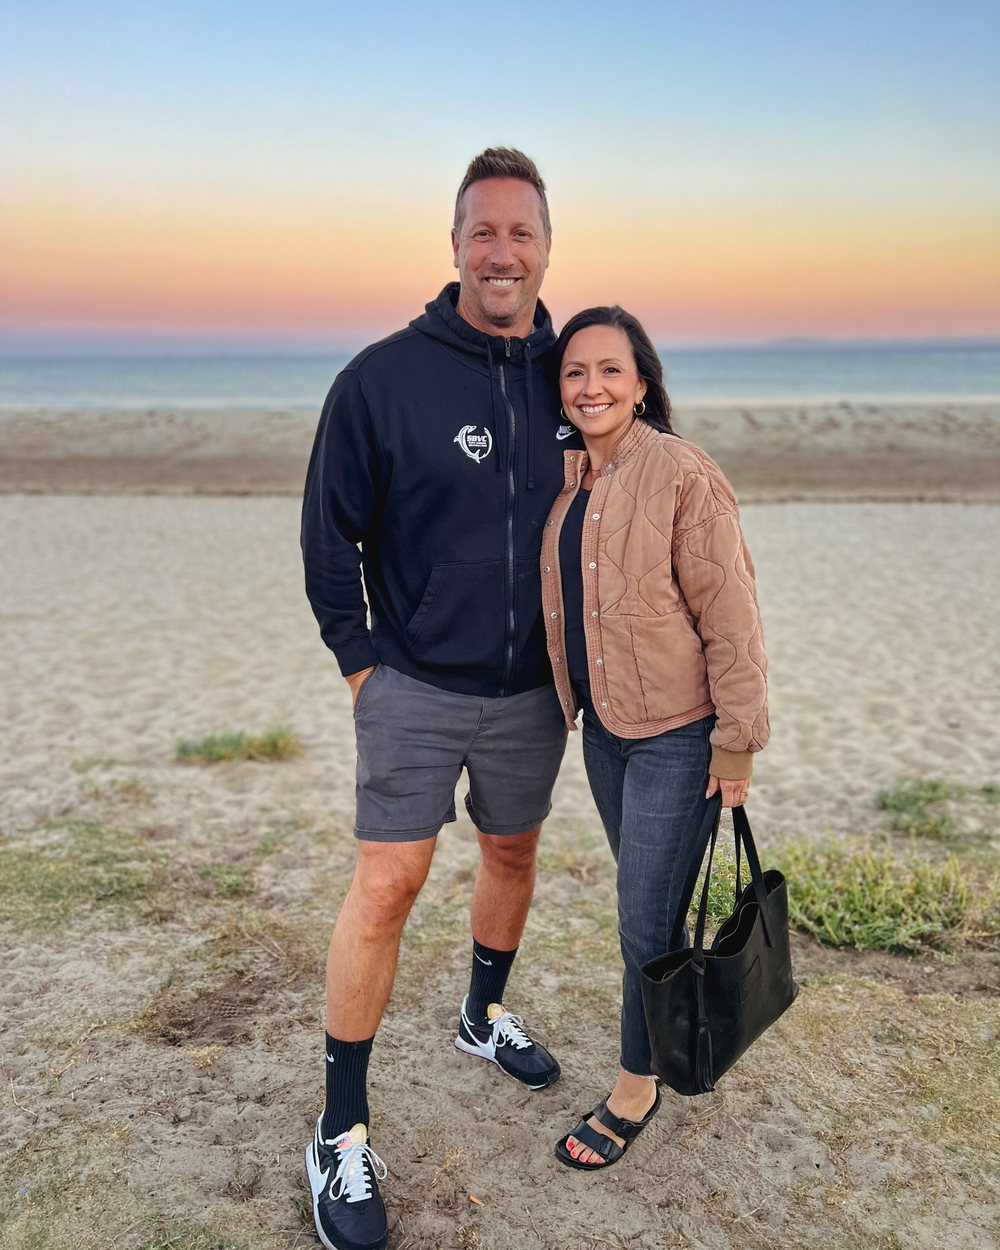
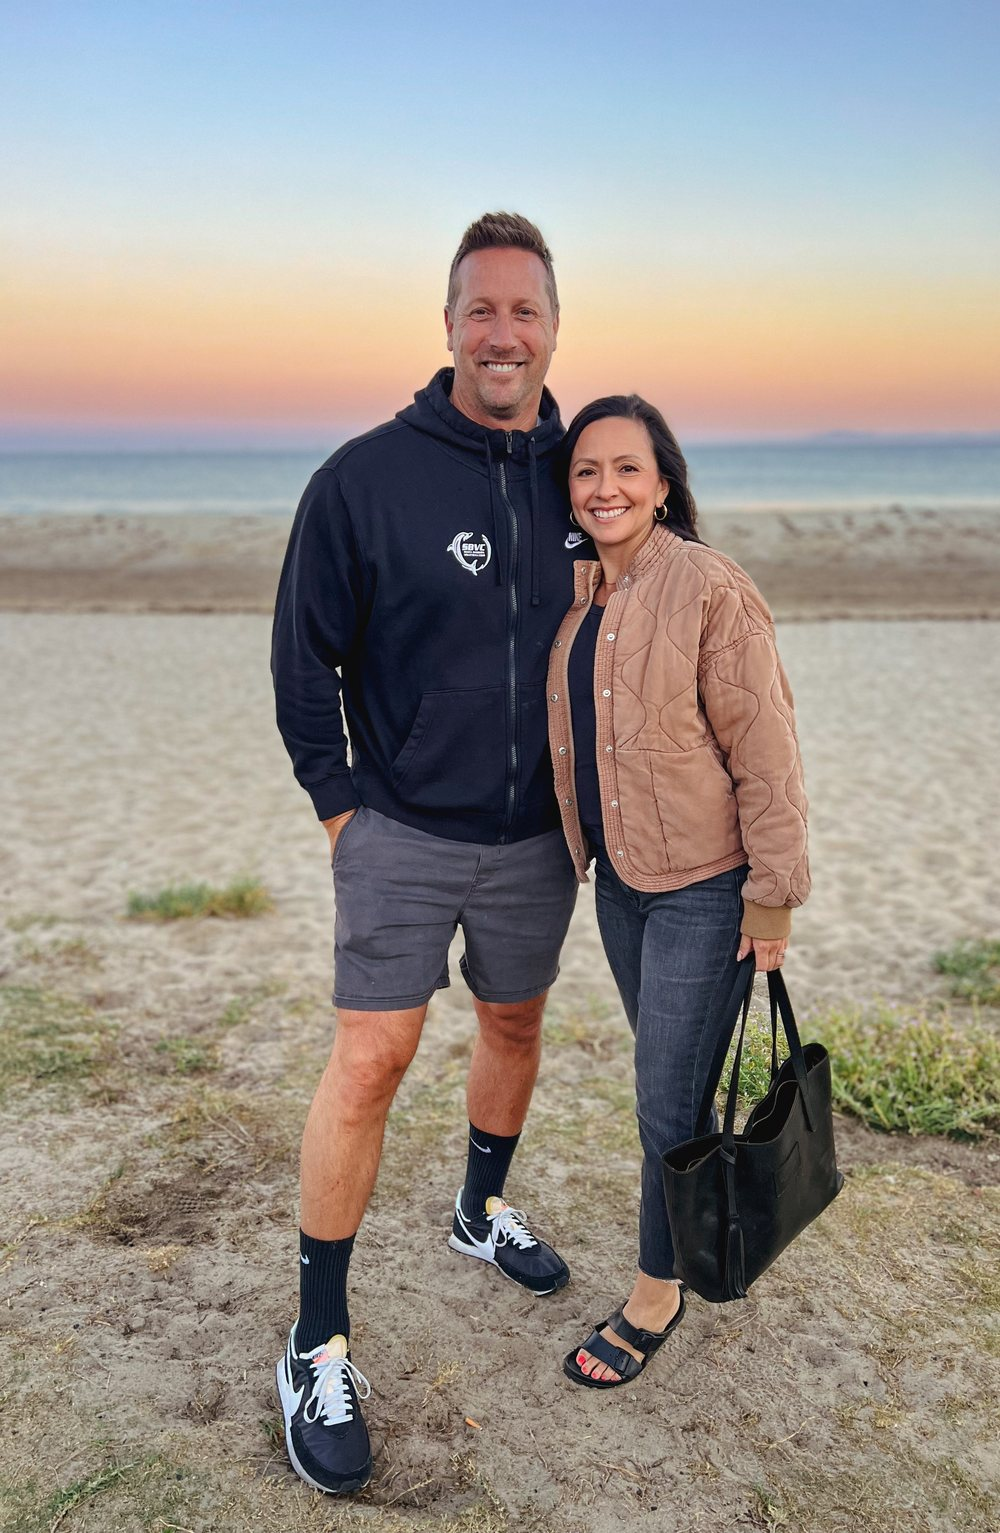
Add files via upload
rework the map, update melissa and our section, tweak photo section

diff --git a/css/components.css b/css/components.css
@@ -127,6 +127,11 @@
 }
 @media (max-width: 880px) { .split { grid-template-columns: 1fr; } }
 .split__media { aspect-ratio: 4 / 5; }
+
+/* The waving-at-the-door photo is 0.65 aspect — taller than the standard
+   4:5 slot, which was clipping 313px off the bottom (his legs). This
+   variant matches the source so the full frame shows. */
+.split__media--tall { aspect-ratio: 1075 / 1657; }
 .split__media img { width: 100%; height: 100%; object-fit: cover; }
 /* The mark is artwork, not a photograph — it is never cropped or
    stretched to fill the slot. Scale proportionally, centred, with room
@@ -586,32 +591,36 @@
 
 
 /* ---------- Life mosaic ----------
-   One large anchor image with three smaller cells beside it, captions
-   set over the photograph rather than beneath. Deliberately asymmetric
-   so the set reads as composed rather than a row of equal squares.   */
+   Two tall columns flanking a stacked pair. Every slot is portrait
+   because all four source photos are 3:4 — the previous layout had a
+   16:7 banner that kept only 34% of the image height and cropped
+   people off at the chest. Captions sit over the photograph.        */
 
 .life__mosaic {
   display: grid;
-  grid-template-columns: 1.35fr 1fr 1fr;
+  grid-template-columns: 1.25fr 1fr 1.25fr;
   grid-template-rows: auto auto;
   gap: clamp(0.85rem, 1.6vw, 1.4rem);
+  align-items: stretch;
 }
-.life__hero { grid-row: 1 / span 2; grid-column: 1; margin: 0; }
-.life__cell { margin: 0; }
+
+/* Left anchor spans both rows */
+.life__hero { grid-column: 1; grid-row: 1 / span 2; margin: 0; }
+/* Centre column stacks two */
 .life__cell:nth-of-type(2) { grid-column: 2; grid-row: 1; }
-.life__cell:nth-of-type(3) { grid-column: 3; grid-row: 1; }
-.life__cell:nth-of-type(4) { grid-column: 2 / span 2; grid-row: 2; }
+.life__cell:nth-of-type(3) { grid-column: 2; grid-row: 2; }
+/* Right anchor spans both rows */
+.life__cell:nth-of-type(4) { grid-column: 3; grid-row: 1 / span 2; }
+.life__cell { margin: 0; }
 
 .life__hero, .life__cell { position: relative; overflow: hidden; }
-.life__hero .life__media { aspect-ratio: 3 / 4.5; height: 100%; margin: 0; }
+.life__hero .life__media,
+.life__cell:nth-of-type(4) .life__media { aspect-ratio: 3 / 4.6; height: 100%; margin: 0; }
 .life__cell:nth-of-type(2) .life__media,
-.life__cell:nth-of-type(3) .life__media { aspect-ratio: 1 / 1.12; margin: 0; }
-.life__cell:nth-of-type(4) .life__media { aspect-ratio: 16 / 7.2; margin: 0; }
+.life__cell:nth-of-type(3) .life__media { aspect-ratio: 4 / 3.4; margin: 0; }
 
 .life__hero img, .life__cell img { width: 100%; height: 100%; object-fit: cover; }
 
-/* Caption sits over the image on a gradient so it reads without a
-   separate text block under each photo. */
 .life__hero figcaption,
 .life__cell figcaption {
   position: absolute;
@@ -642,13 +651,15 @@
   margin-bottom: 0.3rem;
 }
 
-@media (max-width: 860px) {
+@media (max-width: 900px) {
   .life__mosaic { grid-template-columns: 1fr 1fr; }
-  .life__hero { grid-row: 1; grid-column: 1 / span 2; }
-  .life__hero .life__media { aspect-ratio: 16 / 9; }
-  .life__cell:nth-of-type(2) { grid-column: 1; grid-row: 2; }
-  .life__cell:nth-of-type(3) { grid-column: 2; grid-row: 2; }
-  .life__cell:nth-of-type(4) { grid-column: 1 / span 2; grid-row: 3; }
+  .life__hero { grid-column: 1; grid-row: 1; }
+  .life__cell:nth-of-type(2) { grid-column: 2; grid-row: 1; }
+  .life__cell:nth-of-type(3) { grid-column: 1; grid-row: 2; }
+  .life__cell:nth-of-type(4) { grid-column: 2; grid-row: 2; }
+  .life__hero .life__media,
+  .life__cell .life__media,
+  .life__cell:nth-of-type(4) .life__media { aspect-ratio: 3 / 4; }
 }
 @media (max-width: 520px) {
   .life__mosaic { grid-template-columns: 1fr; }
@@ -656,14 +667,19 @@
   .life__cell:nth-of-type(2), .life__cell:nth-of-type(3), .life__cell:nth-of-type(4) {
     grid-column: 1; grid-row: auto;
   }
-  .life__hero .life__media { aspect-ratio: 4 / 3; }
+  .life__hero .life__media,
   .life__cell .life__media,
-  .life__cell:nth-of-type(4) .life__media { aspect-ratio: 4 / 3; }
+  .life__cell:nth-of-type(4) .life__media { aspect-ratio: 4 / 3.6; }
 }
 
 /* ---------- Areas map ---------- */
 
-.areas__map { max-width: 900px; margin-inline: auto; }
+/* The map is a vertical list, not a geographic projection. The coastal
+   towns sit within ~20 miles of each other, so a true-to-scale horizontal
+   map crammed Santa Barbara, Montecito, Summerland and Carpinteria into
+   overlapping labels. This version guarantees legibility by construction:
+   one row per town, pins on a shared axis, labels parallel. */
+.areas__map { max-width: 620px; margin-inline: auto; }
 .areas__map img { width: 100%; height: auto; display: block; }
 
 /* ---------- Centred closing block ---------- */

diff --git a/index.html b/index.html
@@ -96,7 +96,7 @@
   <!-- POSITIONING -->
   <section class="section section--tint">
     <div class="shell split">
-      <div class="split__media" data-reveal><img src="/assets/life/todd-door.jpg" alt="Todd Shea at the front door of a Santa Barbara listing" width="1000" height="1250" data-scroll-scale></div>
+      <div class="split__media split__media--tall" data-reveal><img src="/assets/life/todd-door.jpg" alt="Todd Shea at the front door of a Santa Barbara listing" width="1000" height="1541" data-scroll-scale></div>
       <div>
         <div class="stripes"><span></span><span></span></div>
         <p class="eyebrow eyebrow--clay">What this is</p>
@@ -156,7 +156,7 @@
         <h2>Ten towns, one coastline.</h2>
       </div>
       <div class="areas__map" data-reveal data-reveal-delay="120">
-        <img src="/assets/area-map.svg" alt="Map of the areas Todd Shea serves: Los Olivos, Buellton, Santa Ynez, Goleta, Santa Barbara, Montecito, Summerland, Carpinteria, Ojai and Ventura" width="1000" height="430" loading="lazy">
+        <img src="/assets/area-map.svg" alt="Areas Todd Shea serves — Santa Ynez Valley: Los Olivos, Santa Ynez, Buellton. South Coast: Goleta, Santa Barbara, Montecito, Summerland, Carpinteria. Ventura County: Ojai, Ventura." width="760" height="718" loading="lazy">
       </div>
     </div>
   </section>

diff --git a/about.html b/about.html
@@ -125,7 +125,7 @@
         <p class="eyebrow">Home</p>
         <h2>Married to the area</h2>
         <p class="muted">Twenty-plus years with Melissa &mdash; a Goleta local, and the best thing that ever
-        happened to him. She's the steadier one, the sharper one, and the reason any of this works.</p>
+        happened. She works as hard as anyone he knows, and she's the reason it all balances.</p>
         <p class="muted">Two kids who came up through our local schools. The roots here aren't a marketing
         angle &mdash; they're the reason the local knowledge is real.</p>
       </div>

diff --git a/README.md b/README.md
@@ -309,6 +309,16 @@ Captions sit over photography with a gradient behind them.
   correct method is to set the text to `transparent`, screenshot, then
   sample the exact glyph boxes.
 
+
+### Life mosaic shape
+
+**⚠ Every slot is portrait on purpose.** All four source photos are 3:4.
+An earlier version used a 16:7 wide banner for the fourth slot, which kept
+only **34% of the image height** and cropped Todd and Melissa off at the
+chest. The layout is now two tall anchors (golf, Melissa) flanking a
+stacked pair (surf, kitchen). If you add a wide slot back, check what
+percentage of the source height survives before committing to it.
+
 ### Everything else
 
 All text/background pairs across all pages pass WCAG AA (4.5:1 normal,
@@ -434,6 +444,21 @@ issue pages drift out of sync.
 ---
 
 ## Content decisions worth preserving
+
+**⚠ The areas map is a list, not a projection.** `assets/area-map.svg` is
+generated as a vertical column — one row per town, pins on a shared axis,
+labels parallel, grouped under Santa Ynez Valley / South Coast / Ventura
+County. A geographically accurate horizontal version was built first and
+failed: the coastal towns sit within ~20 miles of each other, so Santa
+Barbara, Montecito, Summerland and Carpinteria overlapped no matter how the
+labels were staggered. The vertical form makes collisions impossible by
+construction. The group headings also handle the county problem below.
+
+**⚠ Some images bypass the standard slot ratio.** `.split__media` is 4:5,
+but the waving-at-the-door photo is 0.649 aspect and was losing 313px —
+his legs — to that crop. It uses `.split__media--tall`, which matches the
+source exactly. If a photo looks clipped, compare its aspect to the slot
+before reaching for a different crop anchor.
 
 **⚠ Service area language.** Todd works Los Olivos, Buellton, Santa Ynez,
 Goleta, Santa Barbara, Montecito, Summerland, Carpinteria, Ojai and